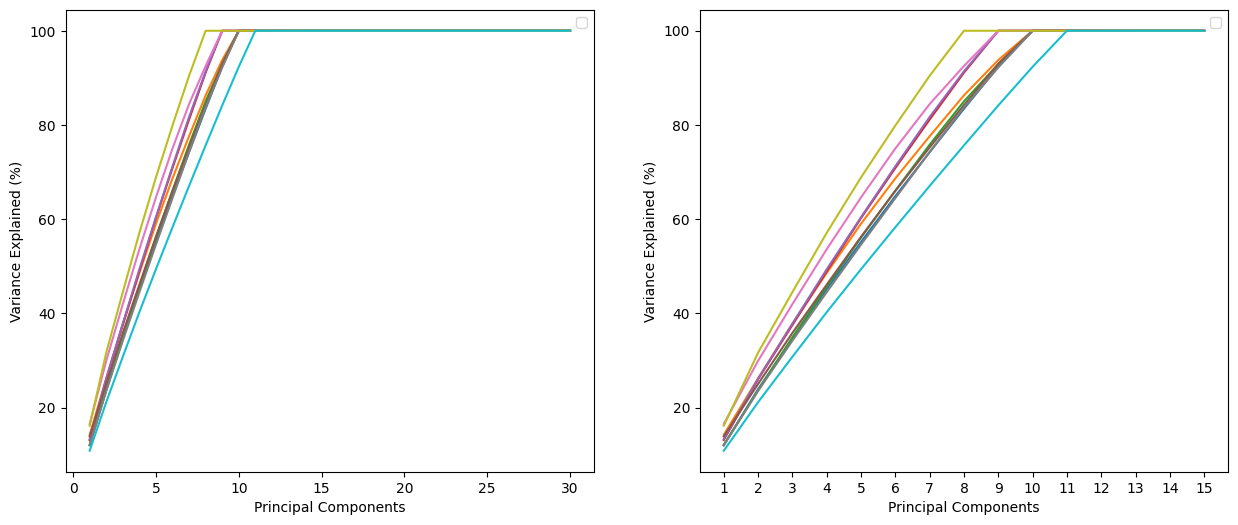
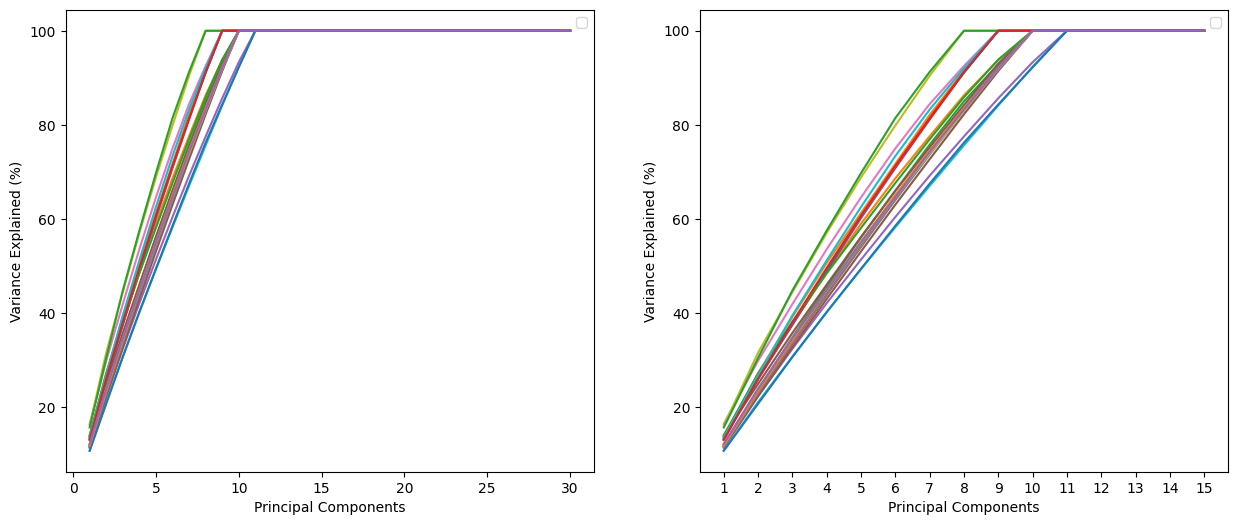
Code

Changed region(s): [[0.5832, 0.0305, 0.9822, 0.8533], [0.0614, 0.0305, 0.4604, 0.8533]]

diff --git a/balance_dataset.py b/balance_dataset.py
@@ -180,9 +180,9 @@ datagen = ImageDataGenerator(rotation_range=360, fill_mode="nearest")
 
 
 # check the number of augmented images
-# augmented_spirals = os.listdir("/cosma5/data/durham/dc-howi1/project/Eagle Augmented/Spirals Only/")
-augmented_transitional = os.listdir("/cosma5/data/durham/dc-howi1/project/Eagle Augmented/Transitional All/")
-augmented_ellipticals =  os.listdir("/cosma5/data/durham/dc-howi1/project/Eagle Augmented/Ellipticals All/")
+augmented_spirals = os.listdir("/cosma5/data/durham/dc-howi1/project/Eagle Augmented/Spirals Only/")
+augmented_transitional = os.listdir("/cosma5/data/durham/dc-howi1/project/Eagle Augmented/Transitional Only/")
+augmented_ellipticals =  os.listdir("/cosma5/data/durham/dc-howi1/project/Eagle Augmented/Ellipticals Only/")
 
 print()
 # print(len(augmented_spirals)+len(spirals))
@@ -219,83 +219,88 @@ print()
 
 
 
-def normalise_independently(image):
-    image = image.T
-    for i in range(0, 3):
-        image[i] = (image[i] - np.min(image[i])) / (np.max(image[i]) - np.min(image[i]))
-    return image.T
 
 
 
 
-spiral_sample = random.sample(spirals, 36)
 
-fig, axs = plt.subplots(6, 6, figsize=(20, 20))
-
-for i in range(0, 6):
-    for j in range(0, 6):
-
-        image = mpimg.imread("/cosma7/data/Eagle/web-storage/RefL0100N1504_Subhalo/galrand_" + str(spiral_sample[index]) + ".png")
-
-        sersic = all_properties.loc[all_properties["GalaxyID"] == spiral_sample[index], "n_r"].values[0]
-        dt = all_properties.loc[all_properties["GalaxyID"] == spiral_sample[index], "DiscToTotal"].values[0]
-
-        axs[i][j].imshow(normalise_independently(image))
-        # axs[i][j].set_title(str(spiral_sample[index]) + ", n=" + str(sersic))
-        axs[i][j].set_title(str(spiral_sample[index]) + "\n d/t=" + str(round(dt, 3)) + ", n=" + str(round(sersic, 1)))
-        axs[i][j].tick_params(axis='both', which='both', length=0, labelbottom=False, labelleft=False)
-
-plt.savefig("Variational Eagle/Plots/sample_dt_spiral", bbox_inches='tight')
-plt.show()
-plt.close()
-print(".")
-
-
-
-
-transitional_sample = random.sample(transitional, 36)
-
-fig, axs = plt.subplots(6, 6, figsize=(20, 20))
-
-for i in range(0, 6):
-    for j in range(0, 6):
-
-        image = mpimg.imread("/cosma7/data/Eagle/web-storage/RefL0100N1504_Subhalo/galrand_" + str(transitional_sample[index]) + ".png")
-
-        sersic = all_properties.loc[all_properties["GalaxyID"] == transitional_sample[index], "n_r"].values[0]
-        dt = all_properties.loc[all_properties["GalaxyID"] == transitional_sample[index], "DiscToTotal"].values[0]
-
-        axs[i][j].imshow(normalise_independently(image))
-        axs[i][j].set_title(str(transitional_sample[index]) + "\n d/t=" + str(round(dt, 3)) + ", n=" + str(round(sersic, 1)))
-        axs[i][j].tick_params(axis='both', which='both', length=0, labelbottom=False, labelleft=False)
-
-plt.savefig("Variational Eagle/Plots/sample_dt_transitional", bbox_inches='tight')
-plt.show()
-plt.close()
-print(".")
-
-
-elliptical_sample = random.sample(ellipticals, 36)
-
-fig, axs = plt.subplots(6, 6, figsize=(20, 20))
-
-for i in range(0, 6):
-    for j in range(0, 6):
-
-        image = mpimg.imread("/cosma7/data/Eagle/web-storage/RefL0100N1504_Subhalo/galrand_" + str(elliptical_sample[index]) + ".png")
-
-        sersic = all_properties.loc[all_properties["GalaxyID"] == elliptical_sample[index], "n_r"].values[0]
-        dt = all_properties.loc[all_properties["GalaxyID"] == elliptical_sample[index], "DiscToTotal"].values[0]
-
-        axs[i][j].imshow(normalise_independently(image))
-        # axs[i][j].set_title(str(elliptical_sample[index]) + ", n=" + str(sersic))
-        axs[i][j].set_title(str(elliptical_sample[index]) + "\n d/t=" + str(round(dt, 3)) + ", n=" + str(round(sersic, 1)))
-        axs[i][j].tick_params(axis='both', which='both', length=0, labelbottom=False, labelleft=False)
-
-plt.savefig("Variational Eagle/Plots/sample_dt_elliptical", bbox_inches='tight')
-plt.show()
-plt.close()
-print(".")
+# def normalise_independently(image):
+#     image = image.T
+#     for i in range(0, 3):
+#         image[i] = (image[i] - np.min(image[i])) / (np.max(image[i]) - np.min(image[i]))
+#     return image.T
+#
+#
+#
+#
+# spiral_sample = random.sample(spirals, 36)
+#
+# fig, axs = plt.subplots(6, 6, figsize=(20, 20))
+#
+# for i in range(0, 6):
+#     for j in range(0, 6):
+#
+#         image = mpimg.imread("/cosma7/data/Eagle/web-storage/RefL0100N1504_Subhalo/galrand_" + str(spiral_sample[index]) + ".png")
+#
+#         sersic = all_properties.loc[all_properties["GalaxyID"] == spiral_sample[index], "n_r"].values[0]
+#         dt = all_properties.loc[all_properties["GalaxyID"] == spiral_sample[index], "DiscToTotal"].values[0]
+#
+#         axs[i][j].imshow(normalise_independently(image))
+#         # axs[i][j].set_title(str(spiral_sample[index]) + ", n=" + str(sersic))
+#         axs[i][j].set_title(str(spiral_sample[index]) + "\n d/t=" + str(round(dt, 3)) + ", n=" + str(round(sersic, 1)))
+#         axs[i][j].tick_params(axis='both', which='both', length=0, labelbottom=False, labelleft=False)
+#
+# plt.savefig("Variational Eagle/Plots/sample_dt_spiral", bbox_inches='tight')
+# plt.show()
+# plt.close()
+# print(".")
+#
+#
+#
+#
+# transitional_sample = random.sample(transitional, 36)
+#
+# fig, axs = plt.subplots(6, 6, figsize=(20, 20))
+#
+# for i in range(0, 6):
+#     for j in range(0, 6):
+#
+#         image = mpimg.imread("/cosma7/data/Eagle/web-storage/RefL0100N1504_Subhalo/galrand_" + str(transitional_sample[index]) + ".png")
+#
+#         sersic = all_properties.loc[all_properties["GalaxyID"] == transitional_sample[index], "n_r"].values[0]
+#         dt = all_properties.loc[all_properties["GalaxyID"] == transitional_sample[index], "DiscToTotal"].values[0]
+#
+#         axs[i][j].imshow(normalise_independently(image))
+#         axs[i][j].set_title(str(transitional_sample[index]) + "\n d/t=" + str(round(dt, 3)) + ", n=" + str(round(sersic, 1)))
+#         axs[i][j].tick_params(axis='both', which='both', length=0, labelbottom=False, labelleft=False)
+#
+# plt.savefig("Variational Eagle/Plots/sample_dt_transitional", bbox_inches='tight')
+# plt.show()
+# plt.close()
+# print(".")
+#
+#
+# elliptical_sample = random.sample(ellipticals, 36)
+#
+# fig, axs = plt.subplots(6, 6, figsize=(20, 20))
+#
+# for i in range(0, 6):
+#     for j in range(0, 6):
+#
+#         image = mpimg.imread("/cosma7/data/Eagle/web-storage/RefL0100N1504_Subhalo/galrand_" + str(elliptical_sample[index]) + ".png")
+#
+#         sersic = all_properties.loc[all_properties["GalaxyID"] == elliptical_sample[index], "n_r"].values[0]
+#         dt = all_properties.loc[all_properties["GalaxyID"] == elliptical_sample[index], "DiscToTotal"].values[0]
+#
+#         axs[i][j].imshow(normalise_independently(image))
+#         # axs[i][j].set_title(str(elliptical_sample[index]) + ", n=" + str(sersic))
+#         axs[i][j].set_title(str(elliptical_sample[index]) + "\n d/t=" + str(round(dt, 3)) + ", n=" + str(round(sersic, 1)))
+#         axs[i][j].tick_params(axis='both', which='both', length=0, labelbottom=False, labelleft=False)
+#
+# plt.savefig("Variational Eagle/Plots/sample_dt_elliptical", bbox_inches='tight')
+# plt.show()
+# plt.close()
+# print(".")
 
 
 

diff --git a/pca.py b/pca.py
@@ -29,7 +29,7 @@ np.set_printoptions(linewidth=np.inf)
 
 fig, axs = plt.subplots(1, 2, figsize=(15, 6))
 
-for run in range(1, 17):
+for run in range(1, 26):
 
     # extracted_features = np.load("Variational Eagle/Extracted Features/Final/bce_latent_" + str(encoding_dim) + "_beta_" + beta_name + "_epoch_300_" + str(run) + ".npy")[0]
     extracted_features = np.load("Variational Eagle/Extracted Features/Normalising Flow Balanced/planar_new_latent_" + str(encoding_dim) + "_beta_" + beta_name + "_epoch_750_flows_" + str(n_flows) + "_" + str(run) + "_default_transformed.npy")
@@ -66,11 +66,12 @@ plt.show()
 
 
 
+
 # accumulation plot
 
 fig, axs = plt.subplots(1, 2, figsize=(15, 6))
 
-for run in range(1, 11):
+for run in range(1, 26):
 
     # extracted_features = np.load("Variational Eagle/Extracted Features/Final/bce_latent_" + str(encoding_dim) + "_beta_" + beta_name + "_epoch_300_" + str(run) + ".npy")[0]
     extracted_features = np.load("Variational Eagle/Extracted Features/Normalising Flow Balanced/planar_new_latent_" + str(encoding_dim) + "_beta_" + beta_name + "_epoch_750_flows_" + str(n_flows) + "_" + str(run) + "_default_transformed.npy")
@@ -78,8 +79,6 @@ for run in range(1, 11):
     print(len(extracted_features))
 
     pca = PCA(n_components=encoding_dim, svd_solver="full").fit(extracted_features)
-
-    print(pca.explained_variance_ratio_.shape)
 
     accumulation = [pca.explained_variance_ratio_[0]*100]
 
@@ -98,7 +97,6 @@ for run in range(1, 11):
     # print(pca.explained_variance_ratio_.shape)
 
 
-
 axs[0].set_ylabel("Variance Explained (%)")
 axs[0].set_xlabel("Principal Components")
 
@@ -113,3 +111,24 @@ axs[1].legend()
 
 plt.savefig("Variational Eagle/Plots/pca_accumulation", bbox_inches="tight")
 plt.show()
+
+
+
+
+
+
+
+no_features_count = [0] * 20
+print(no_features_count)
+
+for run in range(1, 26):
+
+    extracted_features = np.load("Variational Eagle/Extracted Features/Normalising Flow Balanced/planar_new_latent_" + str(encoding_dim) + "_beta_" + beta_name + "_epoch_750_flows_" + str(n_flows) + "_" + str(run) + "_default_transformed.npy")
+
+    pca = PCA(n_components=0.999, svd_solver="full").fit(extracted_features)
+
+    no_features = len(pca.explained_variance_ratio_)
+    no_features_count[no_features] += 1
+
+for i, count in enumerate(no_features_count):
+    print(i, count)
